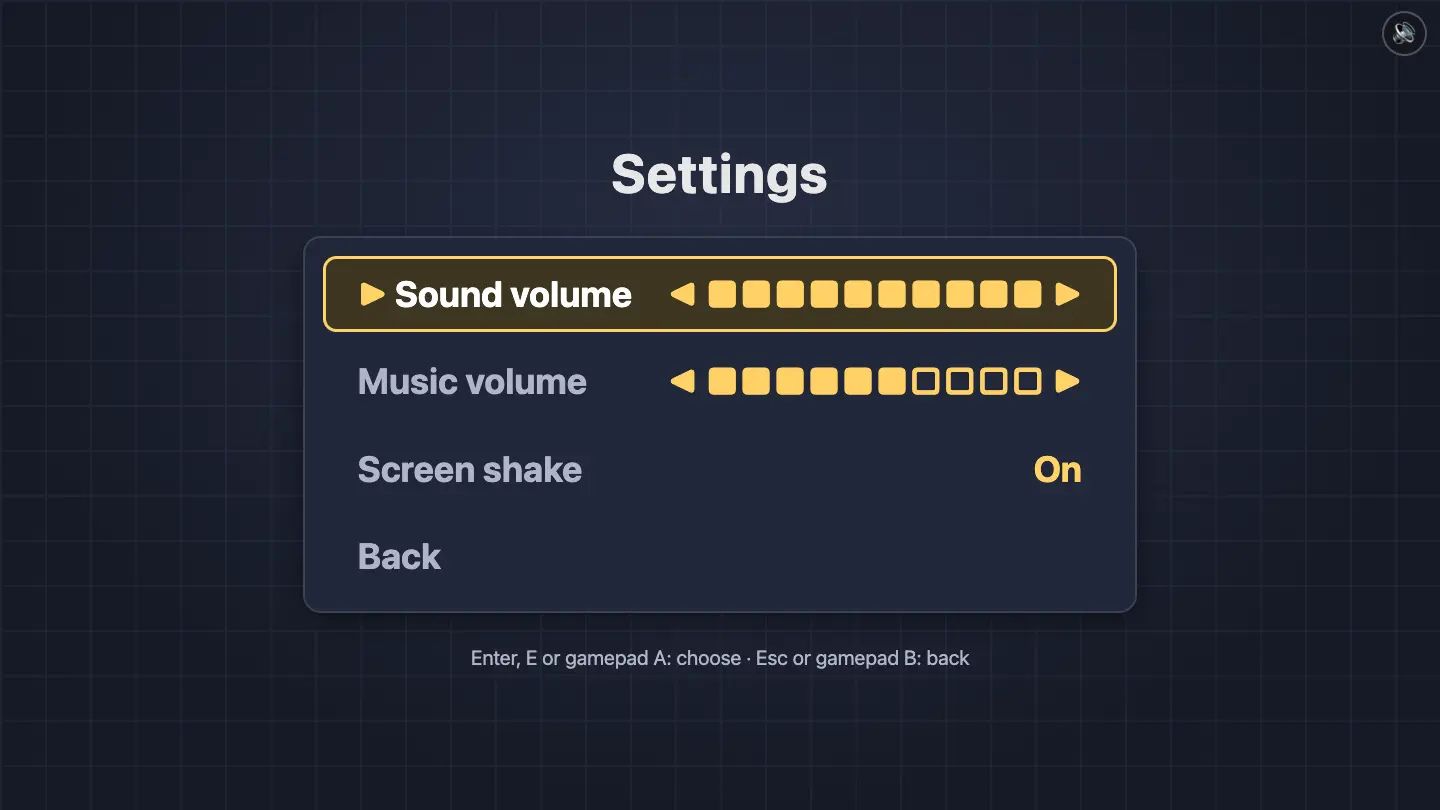
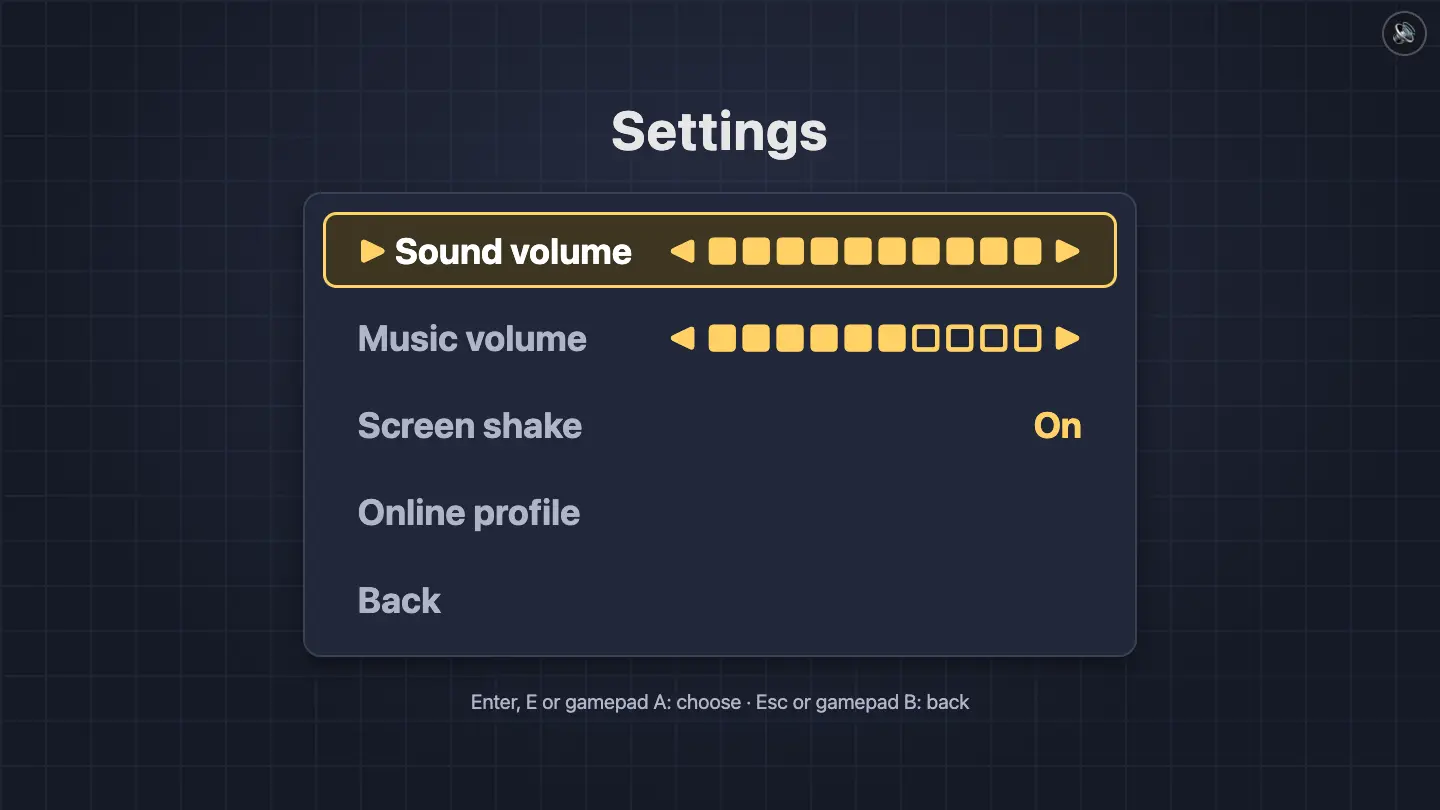
Profile screen: check the ID on the first Enter, tighter layout; docs and screenshots

diff --git a/src/ui/profile.ts b/src/ui/profile.ts
@@ -10,7 +10,7 @@
  */
 
 import { type MenuItem, type ProfileAction, menuItems } from '../flow/flow';
-import type { Identity } from '../flow/identity';
+import { type Identity, normalizeUserId } from '../flow/identity';
 import type { FlowView } from '../render/GameScene';
 import { MENU_HINT, MENU_LABELS, PROFILE_TEXT } from '../sim/content';
 import { el } from './dom';
@@ -88,15 +88,16 @@ export function mountProfile(root: HTMLElement, deps: ProfileDeps): ProfileScree
     nameValue,
   );
   const status = el('div', 'profile-status');
+  card.append(status);
   const server = el('div', 'profile-server');
   const menu = createMenu();
+  const notes = el('div', 'profile-notes');
+  notes.append(el('div', 'profile-about', PROFILE_TEXT.about), server);
   screen.append(
     el('h1', 'screen-title', PROFILE_TEXT.title),
     card,
-    status,
     menu.root,
-    el('div', 'profile-about', PROFILE_TEXT.about),
-    server,
+    notes,
     el('div', 'screen-hint', MENU_HINT),
   );
 
@@ -174,6 +175,10 @@ export function mountProfile(root: HTMLElement, deps: ProfileDeps): ProfileScree
     } else if (editing === 'changeId') {
       if (pendingId === null) {
         // First Enter: check it, then ask to confirm.
+        if (!normalizeUserId(input.value)) {
+          error.textContent = PROFILE_TEXT.badId;
+          return;
+        }
         pendingId = input.value;
         input.readOnly = true;
         error.textContent = PROFILE_TEXT.idConfirm;

diff --git a/src/flow/identity.ts b/src/flow/identity.ts
@@ -7,7 +7,7 @@
  */
 
 import { NET_MAX_NAME_LENGTH } from '../sim/balance';
-import { DEFAULT_DISPLAY_NAME_PREFIX } from '../sim/content';
+import { DEFAULT_DISPLAY_NAME_PREFIX, PROFILE_TEXT } from '../sim/content';
 import type { StorageLike } from './save';
 
 export const USER_ID_KEY = 'isv-simulator.userId';
@@ -123,7 +123,7 @@ export function setDisplayName(
 ): IdentityChange {
   const displayName = normalizeDisplayName(text);
   if (!displayName) {
-    return { ok: false, reason: `A name needs 1 to ${NET_MAX_NAME_LENGTH} characters.` };
+    return { ok: false, reason: PROFILE_TEXT.badName };
   }
   write(storage, DISPLAY_NAME_KEY, displayName);
   return { ok: true, identity: { ...identity, displayName } };

diff --git a/scripts/screenshots.ts b/scripts/screenshots.ts
@@ -232,6 +232,17 @@ const SHOTS: Record<string, Shot> = {
     await page.shot('screens/lobby');
   },
 
+  async 'screens/profile'(page) {
+    await page.open('/');
+    await page.key('Enter'); // wake the title
+    await page.key('ArrowDown');
+    await page.key('Enter'); // Settings
+    for (let i = 0; i < 3; i++) await page.key('ArrowDown');
+    await page.key('Enter'); // Online profile
+    await sleep(400);
+    await page.shot('screens/profile');
+  },
+
   async 'screens/level-select'(page) {
     // A fresh save: later chapters still locked.
     await toLevelSelect(page, '');

diff --git a/src/flow/identity.test.ts b/src/flow/identity.test.ts
@@ -1,4 +1,6 @@
 import { describe, expect, it } from 'vitest';
+import { NET_MAX_NAME_LENGTH } from '../sim/balance';
+import { PROFILE_TEXT } from '../sim/content';
 import {
   DISPLAY_NAME_KEY,
   USER_ID_KEY,
@@ -140,6 +142,7 @@ describe('setDisplayName', () => {
     expect(storage.data.get(DISPLAY_NAME_KEY)).toBe('Linus');
     expect(setDisplayName(storage, identity, ' ').ok).toBe(false);
     expect(storage.data.get(DISPLAY_NAME_KEY)).toBe('Linus');
+    expect(PROFILE_TEXT.badName).toContain(String(NET_MAX_NAME_LENGTH));
   });
 });
 

diff --git a/src/style.css b/src/style.css
@@ -1001,6 +1001,16 @@ body {
 }
 
 /* Settings → Online profile: the id, the name, and a dialog to change them. */
+.profile-screen {
+  gap: 1.25rem;
+}
+
+.profile-notes {
+  display: flex;
+  flex-direction: column;
+  gap: 0.375rem;
+}
+
 .profile-card {
   display: grid;
   grid-template-columns: auto 1fr;
@@ -1034,8 +1044,9 @@ body {
 }
 
 .profile-status {
+  grid-column: 1 / -1;
   min-height: 1.5rem;
-  font-size: 1.25rem;
+  font-size: 1.125rem;
   font-weight: 700;
   color: var(--gold);
 }

diff --git a/src/sim/content.ts b/src/sim/content.ts
@@ -293,4 +293,6 @@ export const PROFILE_TEXT = {
   confirmHint: 'Enter: switch · Esc: cancel',
   ok: 'OK',
   cancel: 'Cancel',
+  badId: 'That is not a user ID (it looks like 8-4-4-4-12 hex digits).',
+  badName: 'A name needs 1 to 24 characters.',
 } as const;

diff --git a/server/README.md b/server/README.md
@@ -12,9 +12,10 @@ npm run dev:online    # the Vite client and the server together
 curl localhost:2567/health
 ```
 
-| Env var | Default | What                         |
-| ------- | ------- | ---------------------------- |
-| `PORT`  | `2567`  | Port for HTTP and WebSockets |
+| Env var              | Default                     | What                                                         |
+| -------------------- | --------------------------- | ------------------------------------------------------------ |
+| `PORT`               | `2567`                      | Port for HTTP and WebSockets                                 |
+| `PROFILE_STORE_PATH` | `server/data/profiles.json` | The online profiles (gitignored; created on the first write) |
 
 `npm run dev:online` leaves `PORT` alone: Vite reads it too, so setting it there would put both on one port.
 
@@ -23,7 +24,9 @@ curl localhost:2567/health
 - `roomLogic.ts`: one room as plain data and pure functions (members, host, capacity, the clock, flow, sim, snapshots). Returns the messages to send; tested without any networking.
 - `GameRoom.ts`: the Colyseus room around it. The join code is the room id.
 - `joinCodes.ts`: codes of the rooms alive in this process, so they stay unique.
-- `app.ts`: `startGameServer(port)`, with the HTTP routes. `main.ts` is the entry point.
+- `profileStore.ts`: `ProfileStore` with `JsonFileProfileStore` (one JSON file, read on first use, rewritten through a temp file and a rename after every change, one change at a time; a corrupt file is moved to `<path>.corrupt-<time>` and the store starts empty) and `MemoryProfileStore` for tests.
+- `profileRoutes.ts`: `GET`/`PUT /profiles/:userId`.
+- `app.ts`: `startGameServer(port, { store })`, with the HTTP routes. `main.ts` is the entry point.
 - `roomLogic.test.ts`, `server.test.ts` (a real server on a free port with `@colyseus/sdk` clients).
 
 ## Talking to it
@@ -60,6 +63,21 @@ room.send('ping', { type: 'ping', id: 1, clientTimeMs: performance.now() });
 
 HTTP: `GET /health` → `ok`. `GET /rooms/:code` → `{ joinCode }` for an open room (any case, spaces and dashes allowed), 404 otherwise.
 
+### Profiles
+
+A profile is `{ userId, displayName, levels, createdAt, updatedAt }`, with `levels` shaped like the browser save's (`{ [levelId]: { bestStars, bestScore, plays } }`). User ids are UUID v4s, any case (stored in lower case); anything else gets a 400.
+
+```sh
+curl localhost:2567/profiles/<id>                      # 404 until the first PUT
+curl -X PUT -H 'content-type: application/json' \
+  -d '{"displayName":"Ada","levels":{"garage":{"bestStars":3,"bestScore":120,"plays":2}}}' \
+  localhost:2567/profiles/<id>                         # merged profile back
+```
+
+`PUT` merges: per level the best stars and best score win and `plays` is the larger count; `displayName` replaces the name when given. The game does this at start-up with its local save and keeps the merged levels.
+
+In a room, each member's profile is loaded when they join (hello's `userId`). The host's levels are the room's unlocks (a new host's when the host leaves). When a round ends, it is recorded in the profile of every member in the room, once per user id. Members whose `userId` isn't a UUID v4 play without a profile.
+
 ## Deploy
 
 ```sh
@@ -69,6 +87,7 @@ docker run --rm -p 2567:2567 isv-simulator-server
 
 The `Dockerfile` bundles `server/` with Vite (`npm run build:server`, which inlines the level maps) into `dist-server/main.js` and runs that with Node 22 and the production dependencies. It runs anywhere that runs a container and allows WebSockets: Azure Container Apps, Fly.io, Render, a VM. Things to know:
 
+- **Profiles on disk.** Mount a volume for the profile file, e.g. `-v isv-profiles:/app/server/data` (or set `PROFILE_STORE_PATH` to a path on one); without it, profiles go with the container.
 - **One instance.** Rooms live in the process's memory and the join codes are unique per process. Don't scale out (no Redis presence or driver is set up); restarting drops the rooms.
 - **WebSockets and sticky sessions.** The platform's ingress must allow WebSocket upgrades. With one instance, no sticky sessions are needed.
 - **TLS.** Let the platform terminate HTTPS; browsers on an `https://` page need `wss://`. The client finds the server through `VITE_SERVER_URL` (13d/13e).

diff --git a/docs/game/README.md b/docs/game/README.md
@@ -48,11 +48,15 @@ The title waits for any button. After that it shows the main menu.
 | ------------------------------------------ | --------------------------------------------- |
 | ![Title screen](images/screens/title.webp) | ![Title menu](images/screens/title-menu.webp) |
 
-Settings has sound volume, music volume and screen shake. Credits lists the asset packs.
+Settings has sound volume, music volume, screen shake and the online profile. Credits lists the asset packs.
 
 |                                           |                                         |
 | ----------------------------------------- | --------------------------------------- |
 | ![Settings](images/screens/settings.webp) | ![Credits](images/screens/credits.webp) |
+
+Settings → Online profile shows this browser's user ID and display name. Copy ID puts the ID on the clipboard; Use another ID takes an ID pasted from another browser (and asks again before switching), so your progress comes along. When the game server is running, progress is synced with your online profile at start-up; without it everything stays on this device. Typing a name or an ID needs a keyboard.
+
+![Online profile](images/screens/profile.webp)
 
 ### Lobby
 
